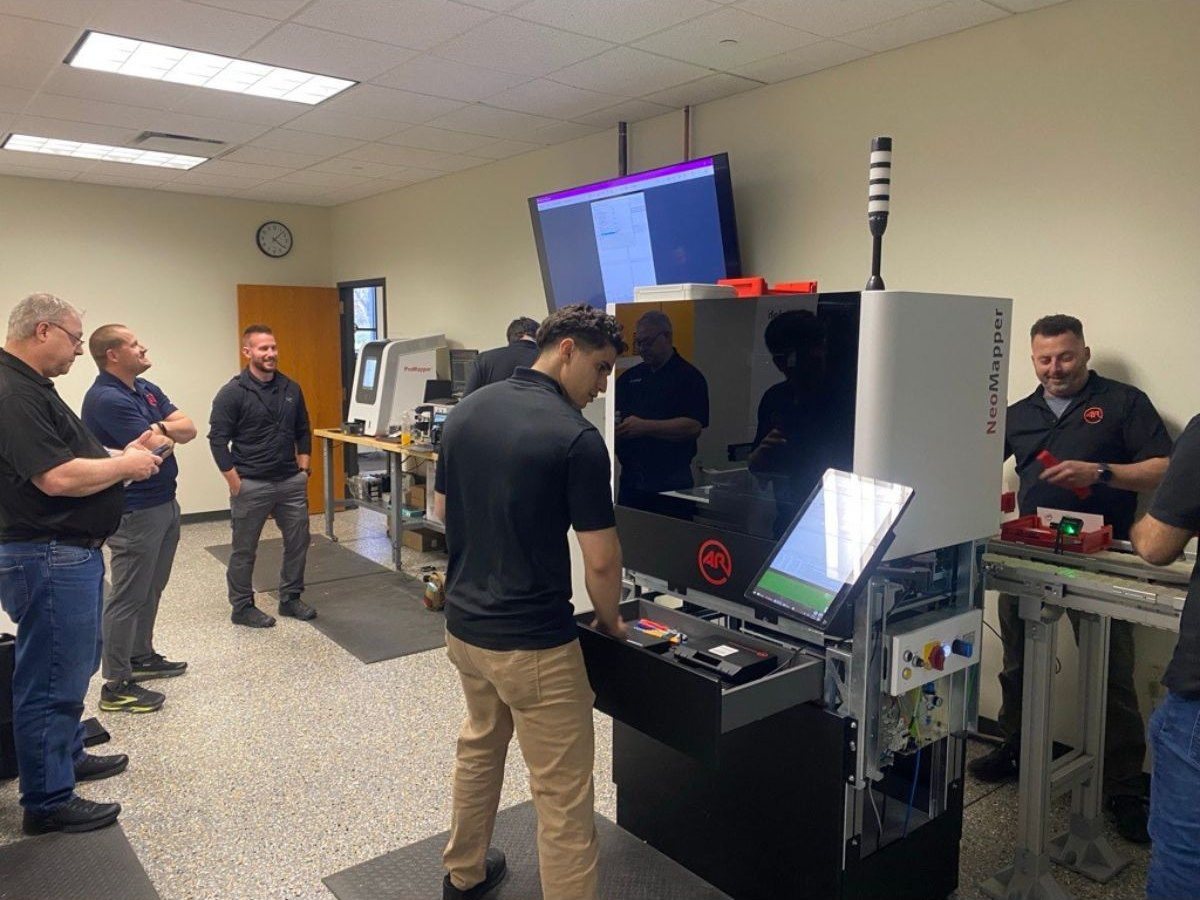
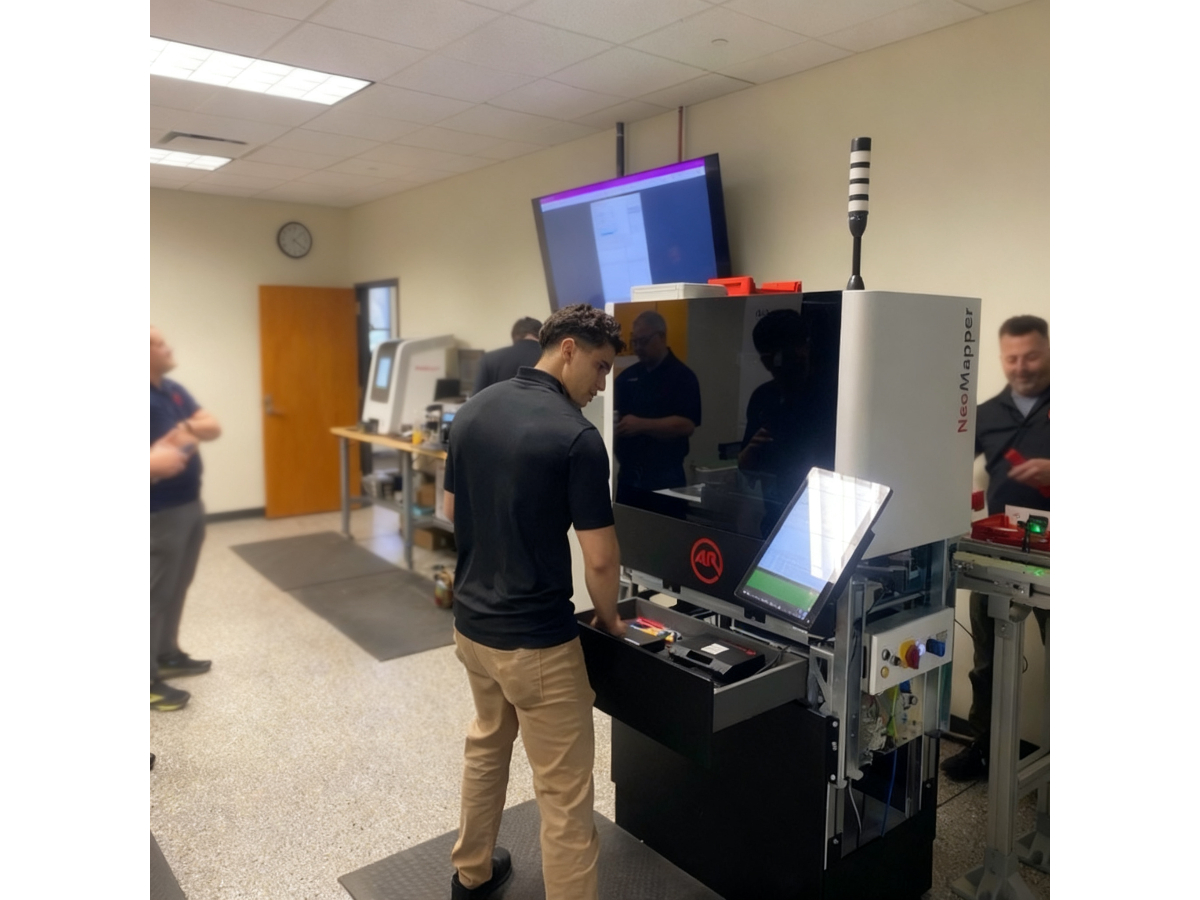
Edits and images

diff --git a/index.html b/index.html
@@ -94,8 +94,15 @@
             </figure>
 
             <div class="about-text reveal">
-                <p class="eyebrow">About me</p>
-                <h2 class="section-title">More than a <span class="accent">developer</span>, more than a technician</h2>
+
+                <div class="about-text reveal">
+                    <p class="eyebrow">About me</p>
+
+                    <h2 class="section-title">
+                        Beyond Code.
+                        <span class="accent title-glow">Into Engineering.</span>
+                    </h2>
+                </div>
                 <p>
                     I'm a Software Service Engineer with a B.S. in Computer Science from the
                     University of Wisconsin&ndash;Platteville. My work sits where software meets physical engineering systems:
@@ -128,14 +135,11 @@
                     <div class="stat"><span class="stat-number" data-count="6">0</span><span class="stat-label">Machines in one deployment</span></div>
                 </div>
 
-                <div class="countries">
-                    <h3><i class="fas fa-globe-americas"></i> Ten countries so far</h3>
-                    <ul id="country-groups" class="country-groups"></ul>
-                </div>
 
                 <p class="interests"><i class="fas fa-heart"></i>
-                    Outside of work: technology and software, engineering and automation, travel and other cultures,
-                    weightlifting and cardio, and learning new skills.
+                    Always curious about how things work. I enjoy exploring emerging
+                    technologies, understanding complex systems, building new skills,
+                    and finding better ways to solve problems.
                 </p>
             </div>
         </div>

diff --git a/style.css b/style.css
@@ -40,6 +40,49 @@ button { font-family: inherit; }
 .container { width: 100%; max-width: 1200px; margin: 0 auto; padding: 0 5%; }
 .accent { color: var(--accent); }
 
+/* Futuristic gradient title */
+.title-glow {
+    background: linear-gradient(
+        90deg,
+        #20c5e8,
+        #ffffff,
+        #168cff,
+        #20c5e8
+    );
+
+    background-size: 300% auto;
+    background-clip: text;
+    -webkit-background-clip: text;
+    -webkit-text-fill-color: transparent;
+
+    animation: gradientFlow 5s ease infinite;
+
+    filter: drop-shadow(0 0 8px rgba(32, 197, 232, 0.25));
+}
+
+/* Animated gradient movement */
+@keyframes gradientFlow {
+    0% {
+        background-position: 0% center;
+    }
+
+    50% {
+        background-position: 100% center;
+    }
+
+    100% {
+        background-position: 0% center;
+    }
+}
+
+/* Accessibility: respect reduced motion */
+@media (prefers-reduced-motion: reduce) {
+    .title-glow {
+        animation: none;
+        background-position: center;
+    }
+}
+
 :focus-visible { outline: 2px solid var(--accent); outline-offset: 3px; }
 
 .skip-link {

diff --git a/content.js b/content.js
@@ -38,10 +38,13 @@ const SITE = {
 
   // Phrases typed after "I work with ..."
   typed: [
-    "optical measurement systems",
-    "machine integration and commissioning",
-    "databases, networks and industrial protocols",
-    "customers on three continents"
+    "industrial automation",
+    "optical engineering systems",
+    "software and hardware integration",
+    "machine commissioning and controls",
+    "industrial networks and protocols",
+    "precision measurement technology",
+    "global engineering operations"
   ]
 };
 
